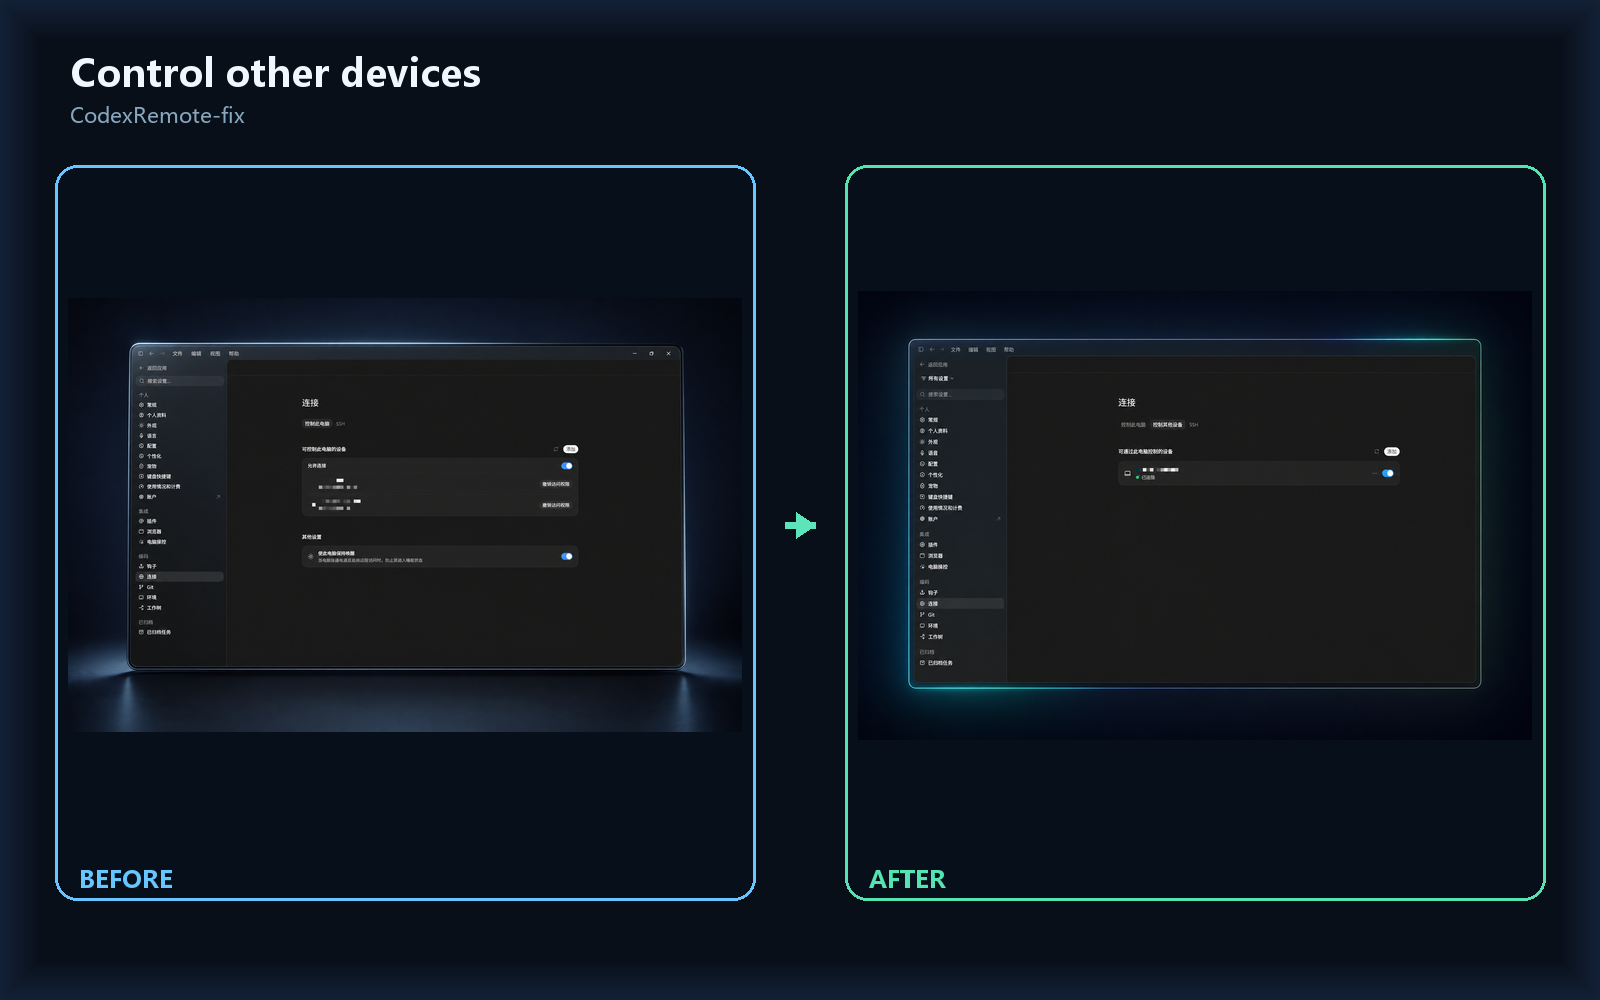
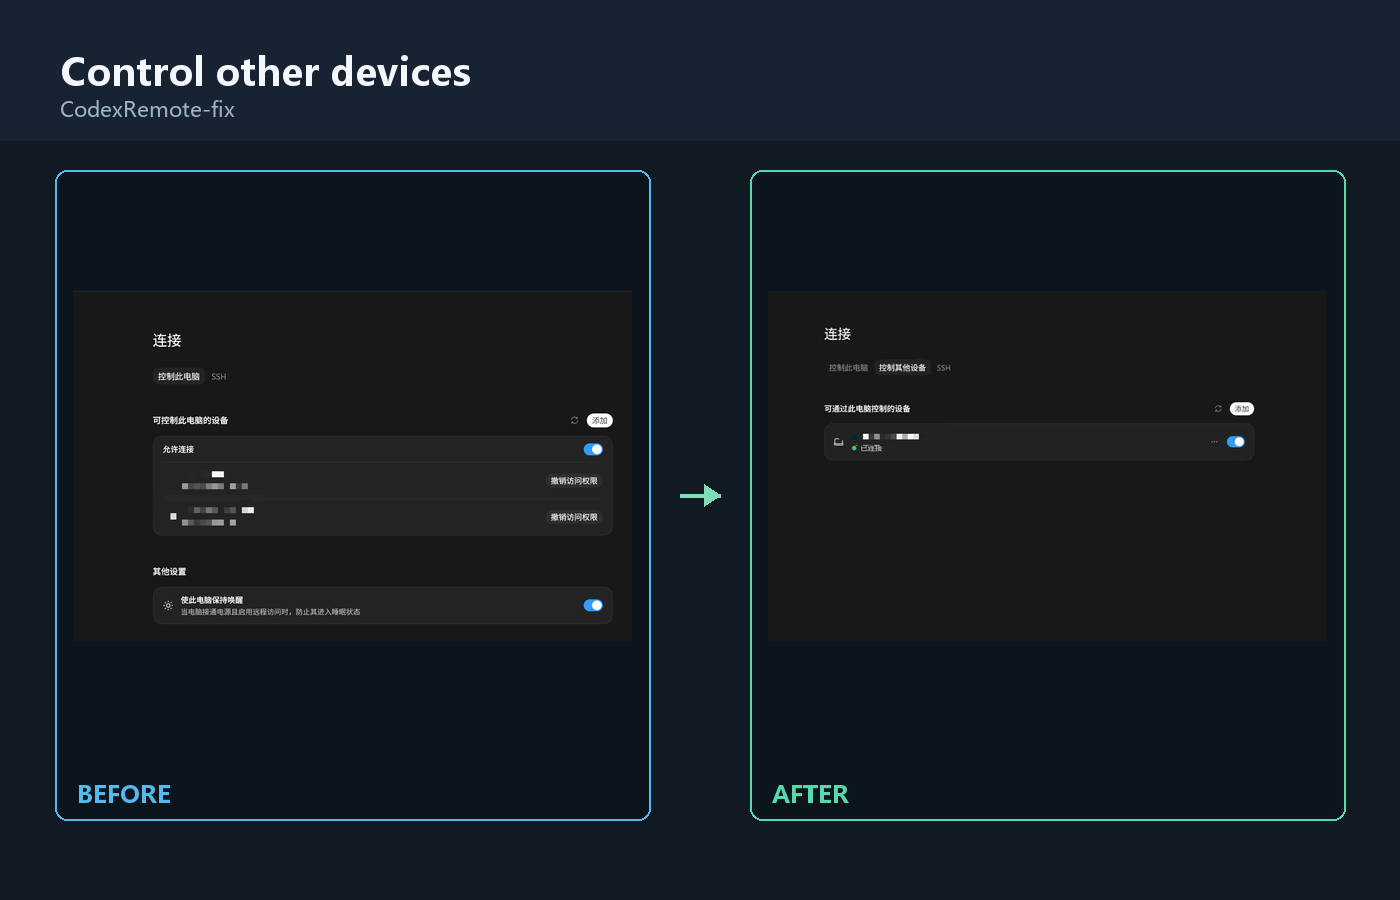
docs: simplify control tab before-after graphic

diff --git a/README.md b/README.md
@@ -29,17 +29,13 @@ On affected Windows builds, Codex Desktop already contains **Settings → Connec
 Control other devices**, but a runtime defect hides the tab. CodexRemote-fix restores
 that existing page and leaves the Codex UI, account authorization, and enrollment flow intact.
 
-![Control other devices tab before and after](docs/assets/codexremote-fix-tab-before-after-en-US.gif)
+![Control other devices tab before and after](docs/assets/codexremote-fix-tab-before-after-en-US.png)
 
 ## Quick start
 
 1. Download `CodexRemote-fix-2.4.15-setup.exe` and `CodexRemote-fix-2.4.15-setup.exe.sha256.txt` from the [Releases](https://github.com/naipi11/CodexRemote-fix/releases) page, then verify the SHA-256.
 2. Run `CodexRemote-fix-2.4.15-setup.exe`; no administrator rights are required.
 3. The tray supervisor starts automatically and creates the desktop shortcut **CodexRemote-fix**. When the tray icon is green, open **Settings → Connections → Control other devices** to enroll or use the device.
-
-![Real Codex Connections capture with Control other devices enabled](docs/assets/codexremote-fix-real-connections-zh-CN.png)
-
-*Real Windows capture; UI language is 简体中文 and device labels are redacted to generic names.*
 
 The current installer and its SHA-256 checksum are always published on the
 [Releases](https://github.com/naipi11/CodexRemote-fix/releases) page.

diff --git a/CHANGELOG.md b/CHANGELOG.md
@@ -6,7 +6,7 @@ This file keeps the short bilingual summary for every published release.
 
 ### English
 
-- Added a concise before/after showcase of the real Control other devices tab.
+- Added a concise before/after showcase image of the real Control other devices tab.
 
 ### 简体中文
 
